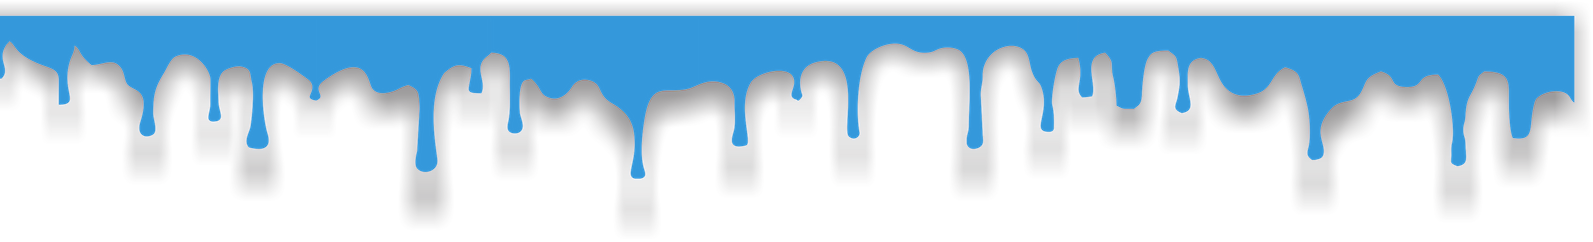
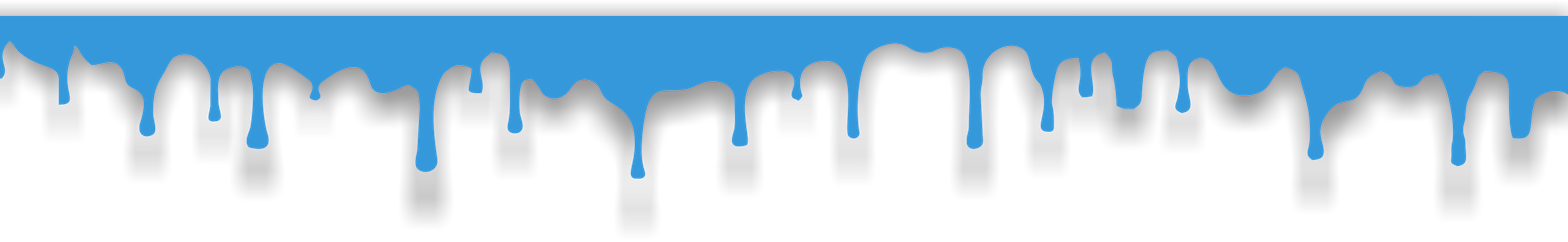
Small fixes.

Changed region(s): [[0.125, 0.0579, 1.0, 0.8388], [0.0938, 0.2314, 0.125, 0.2603]]

diff --git a/BoilerPlateAB/css/main.css b/BoilerPlateAB/css/main.css
@@ -101,7 +101,7 @@ header{
     /*border: 0px solid transparent;*/
     width: 100%;
     height: 240px;
-    background: url(../img/ABheader.png) 0% 0 no-repeat fixed;
+    background: #59A1DA url(../img/ABheader.png) 0% 0 no-repeat fixed;
 }
 nav{
     /*border: 1px solid red;*/
@@ -175,7 +175,7 @@ nav ul{
 }
 #pintura{
         height: 300px;
-        background: url(../img/ABpintura.png) no-repeat;
+        background: url(../img/ABpintura.png) repeat-x;
         margin-top: -16px;
 }
 /*******SLIDER-END*******/
